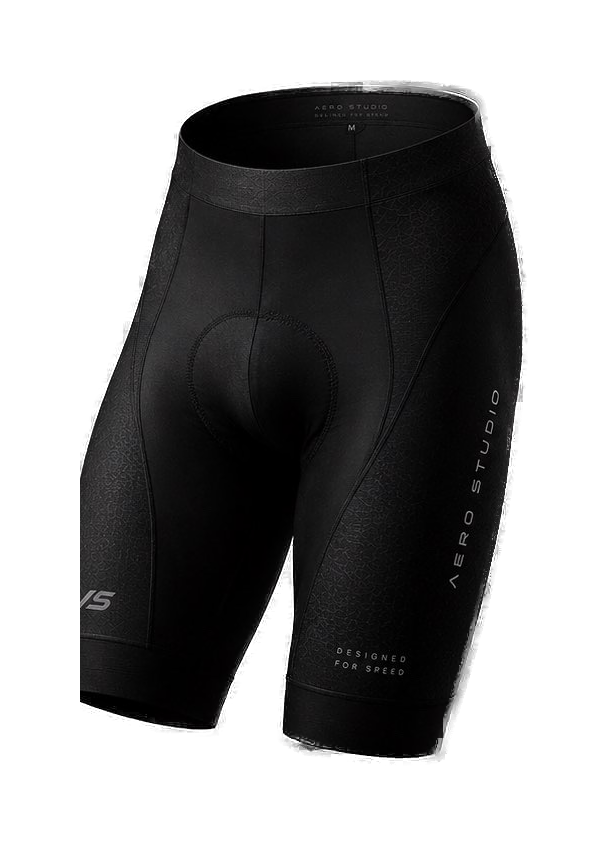
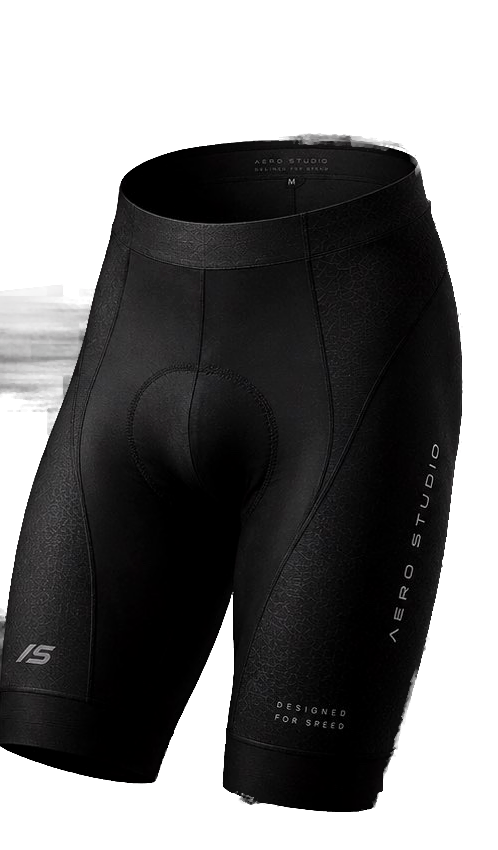
Update Aero Studio hero and mobile nav

diff --git a/src/App.jsx b/src/App.jsx
@@ -1,9 +1,9 @@
-import { useState } from 'react'
+import { useEffect, useState } from 'react'
 import { motion, useScroll, useTransform } from 'framer-motion'
 import { Activity, CircleDot, Feather, Gauge, ShieldCheck, Wind } from 'lucide-react'
 
 const assets = {
-  hero: '/assets/hero-cyclist-editorial.png',
+  hero: '/assets/hero-first-page.png',
   navMark: '/assets/aero-mark-pdf.png',
   riderBack: '/assets/rider-back.jpeg',
   fabric: '/assets/fabric-detail.jpeg',
@@ -95,6 +95,19 @@ const productOptions = [
   'General Inquiry',
 ]
 
+function scrollToHash(id, behavior = 'smooth') {
+  const section = document.querySelector(id)
+  if (!section) return
+  const top = section.getBoundingClientRect().top + window.scrollY
+  window.scrollTo({ top, behavior })
+}
+
+function scrollToSection(event, id) {
+  event.preventDefault()
+  scrollToHash(id)
+  window.history.pushState(null, '', id)
+}
+
 function FadeIn({ children, className = '', delay = 0 }) {
   return (
     <motion.div
@@ -112,24 +125,29 @@ function FadeIn({ children, className = '', delay = 0 }) {
 function Header() {
   return (
     <header className="fixed inset-x-0 top-0 z-40 bg-transparent">
-      <div className="flex min-h-12 items-center justify-between px-6 py-4 sm:px-10 lg:px-12">
-        <a href="#top" className="flex items-center gap-3" aria-label="Aero Studio home">
-          <img src={assets.navMark} alt="" className="h-4 w-10 object-contain" />
-          <span className="whitespace-nowrap text-[0.54rem] font-medium uppercase tracking-[0.46em] text-white/90">
+      <div className="flex min-h-12 items-center gap-4 px-3 py-4 sm:px-10 lg:px-12">
+        <a
+          href="#top"
+          onClick={(event) => scrollToSection(event, '#top')}
+          className="flex shrink-0 items-center gap-3"
+          aria-label="Aero Studio home"
+        >
+          <img src={assets.navMark} alt="" className="h-3.5 w-9 object-contain sm:h-4 sm:w-10" />
+          <span className="hidden whitespace-nowrap text-[0.54rem] font-medium uppercase tracking-[0.46em] text-white/90 sm:inline">
             Aero Studio
           </span>
         </a>
-        <nav className="flex items-center gap-5 overflow-x-auto text-[0.5rem] uppercase tracking-[0.38em] text-white/55 sm:gap-9 sm:overflow-visible">
-          <a href="#story" className="transition hover:text-white">
+        <nav className="ml-auto flex min-w-0 items-center justify-end gap-3 overflow-visible text-[0.47rem] uppercase tracking-[0.18em] text-white/60 min-[390px]:gap-4 min-[390px]:tracking-[0.24em] sm:gap-9 sm:text-[0.5rem] sm:tracking-[0.38em]">
+          <a href="#story" onClick={(event) => scrollToSection(event, '#story')} className="transition hover:text-white">
             story
           </a>
-          <a href="#performance" className="transition hover:text-white">
+          <a href="#performance" onClick={(event) => scrollToSection(event, '#performance')} className="transition hover:text-white">
             performance
           </a>
-          <a href="#collection" className="transition hover:text-white">
+          <a href="#collection" onClick={(event) => scrollToSection(event, '#collection')} className="transition hover:text-white">
             drop
           </a>
-          <a href="#contact" className="transition hover:text-white">
+          <a href="#contact" onClick={(event) => scrollToSection(event, '#contact')} className="transition hover:text-white">
             contact
           </a>
         </nav>
@@ -174,7 +192,7 @@ function Hero() {
           <span>25.1237° N</span>
           <span>55.2744° E</span>
         </div>
-        <a href="#collection" className="mt-8 border border-white/30 px-8 py-3.5 text-[0.56rem] uppercase tracking-[0.36em] text-white transition duration-500 hover:border-white hover:bg-white hover:text-black">
+        <a href="#collection" onClick={(event) => scrollToSection(event, '#collection')} className="mt-8 border border-white/30 px-8 py-3.5 text-[0.56rem] uppercase tracking-[0.36em] text-white transition duration-500 hover:border-white hover:bg-white hover:text-black">
           Coming Soon
         </a>
       </motion.div>
@@ -317,7 +335,7 @@ function CollectionPreview() {
                   src={product.image}
                   alt={product.title}
                   className="h-full w-full object-contain transition duration-700 group-hover:scale-[1.025]"
-                  loading="lazy"
+                  loading="eager"
                   decoding="async"
                 />
               </div>
@@ -469,7 +487,7 @@ function FinalCta() {
         <p className="mt-8 text-sm font-light uppercase tracking-[0.28em] text-zinc-500">
           Technical cycling apparel from Dubai.
         </p>
-        <a href="#contact" className="mt-12 border border-white/30 px-8 py-4 text-[0.62rem] uppercase tracking-[0.36em] text-white transition duration-500 hover:border-white hover:bg-white hover:text-black">
+        <a href="#contact" onClick={(event) => scrollToSection(event, '#contact')} className="mt-12 border border-white/30 px-8 py-4 text-[0.62rem] uppercase tracking-[0.36em] text-white transition duration-500 hover:border-white hover:bg-white hover:text-black">
           Pre Order
         </a>
       </FadeIn>
@@ -494,6 +512,21 @@ function Footer() {
 }
 
 export default function App() {
+  useEffect(() => {
+    function handleHashChange() {
+      if (window.location.hash) {
+        scrollToHash(window.location.hash)
+      }
+    }
+
+    window.addEventListener('hashchange', handleHashChange)
+    if (window.location.hash) {
+      window.requestAnimationFrame(() => scrollToHash(window.location.hash, 'auto'))
+    }
+
+    return () => window.removeEventListener('hashchange', handleHashChange)
+  }, [])
+
   return (
     <main className="min-h-screen overflow-x-hidden bg-black text-white">
       <Header />
